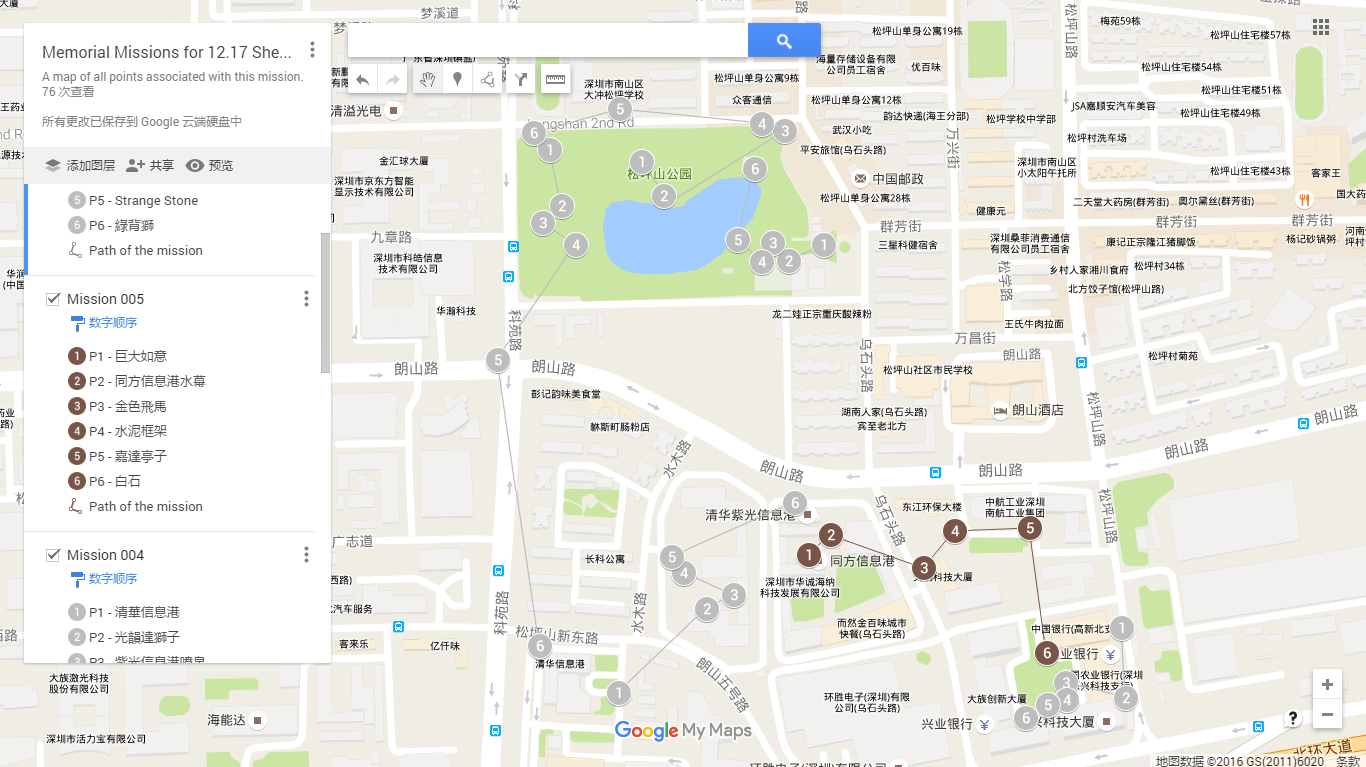
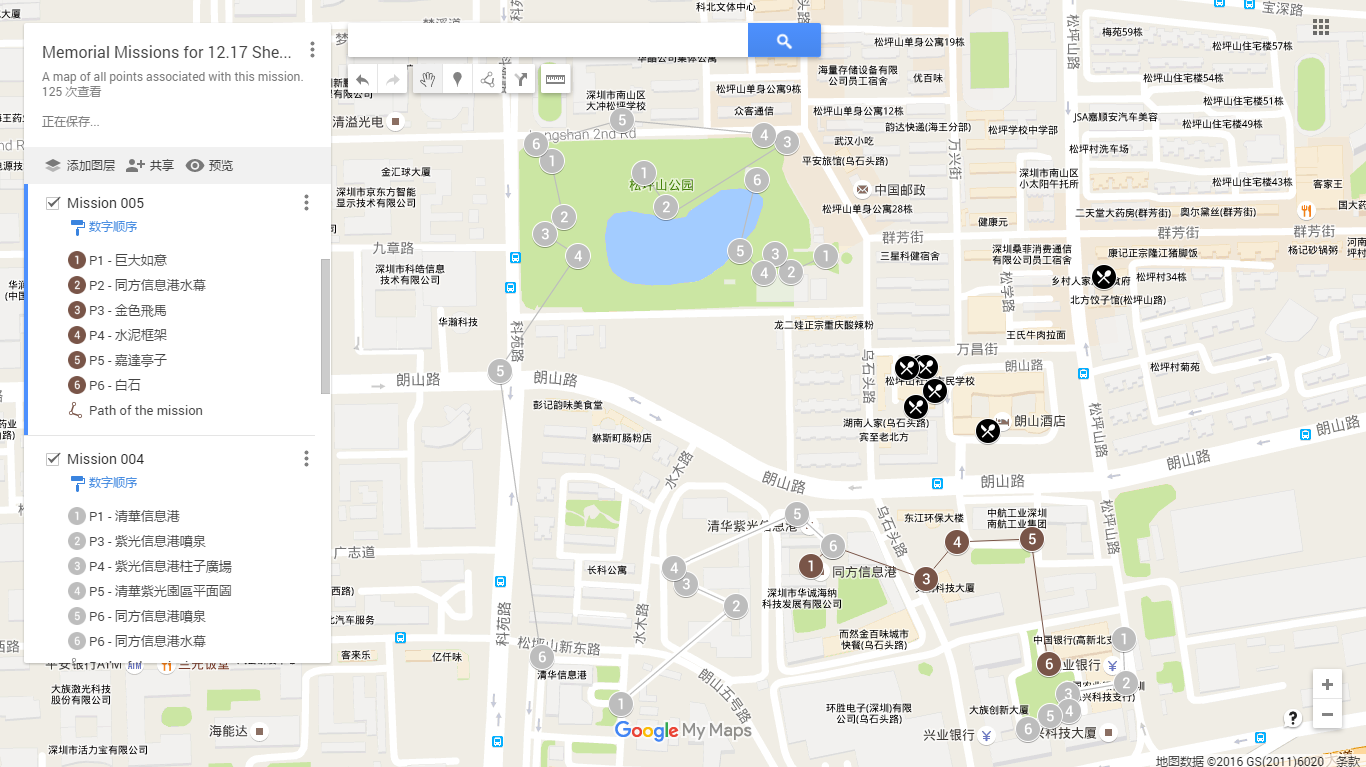
update

diff --git a/post/1217_mission_of_shenzhen/1217_mission_of_shenzhen.md b/post/1217_mission_of_shenzhen/1217_mission_of_shenzhen.md
@@ -9,7 +9,7 @@
 </p>
 
 <p align="center">
-  A <strong>memorial mission</strong> for 12.17 Shenzhen (<strong>Uploading</storng>)
+  A <strong>memorial mission</strong> for 12.17 Shenzhen (<strong>Published</storng>)
 </p>
 
 <br />
@@ -55,8 +55,8 @@ The task has been divided into 6 small one (more details in [Google map](https:/
 
 1. 松坪山公園
 2. 松坪山公園籃球場
-3. 松坪山公園門球場
-4. 松坪山公園網球場
+3. 門球場
+4. 松坪山網球場
 5. 花壇
 6. 圓形劇場
 
@@ -79,7 +79,7 @@ The task has been divided into 6 small one (more details in [Google map](https:/
 2. 松坪山兒童遊樂場
 3. 馬賽克長蛇
 4. 羽毛球場
-5. 華瀚科技園
+5. 華翰科技園
 6. 清華信息港石碑
 
 [![](./task3.png)](https://raw.githubusercontent.com/aleen42/PersonalWiki/master/post/1217_mission_of_shenzhen/task3.png)
@@ -87,18 +87,18 @@ The task has been divided into 6 small one (more details in [Google map](https:/
 #### Memorial Missions for 12.17 Shenzhen - 004
 
 1. 清華信息港
-2. 光韻達獅子
-3. 紫光信息港噴泉
-4. 紫光信息港柱子廣場
-5. 清華紫光園區平面圖
-6. 同方信息港噴泉
+2. 紫光信息港噴泉
+3. 紫光信息港柱子廣場
+4. 清華紫光園區平面圖
+5. 同方信息港噴泉
+6. 同方信息港水幕
 
 [![](./task4.png)](https://raw.githubusercontent.com/aleen42/PersonalWiki/master/post/1217_mission_of_shenzhen/task4.png)
 
 #### Memorial Missions for 12.17 Shenzhen - 005
 
 1. 巨大如意
-2. 同方信息港水幕
+2. 同方信息港水幕 (由於重複 hack 可休憩約 5 分鐘)
 3. 金色飛馬
 4. 水泥框架
 5. 嘉達亭子
@@ -109,7 +109,7 @@ The task has been divided into 6 small one (more details in [Google map](https:/
 #### Memorial Missions for 12.17 Shenzhen - 006
 
 1. 中國銀行獅子
-2. 小笨象左護法
+2. 精雕大花瓶
 3. 碟子噴水池
 4. 科技園北區怪石
 5. Strange Stone
